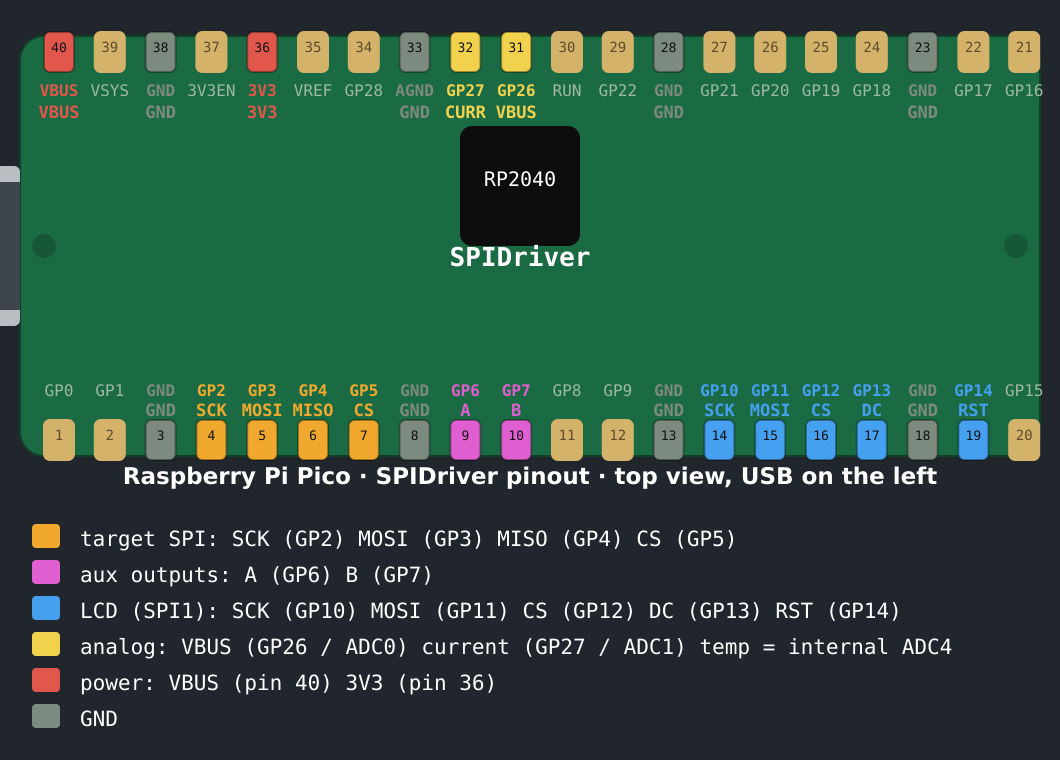
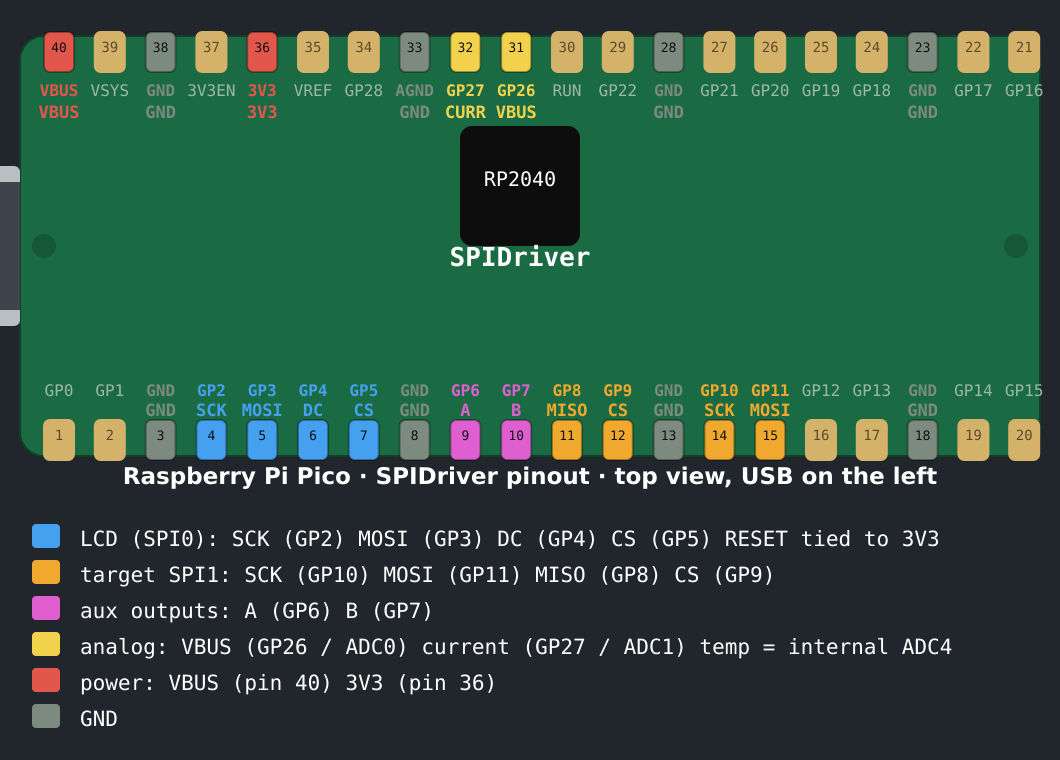
refactor(pico): move LCD to SPI0 pins 4-7, target to SPI1
Display now sits on physical pins 4-7 (GP2 SCK, GP3 MOSI, GP4 DC/RS,
GP5 CS, SPI0) and the target on SPI1 (GP8 MISO, GP9 CS, GP10 SCK,
GP11 MOSI). A/B move to GP6/GP7. LCD reset pin dropped; tie RST to 3V3.

Target MOSI is on pin 15: RP2040 hardware-SPI pins come in fixed sets,
so no complete SPI set fits inside pins 9-13. Both buses hardware SPI.

diff --git a/firmware-c/pico/hal_pico.c b/firmware-c/pico/hal_pico.c
@@ -1,15 +1,19 @@
 /* SPIDriver firmware -- Raspberry Pi Pico (RP2040) port.
  *
- * Pin map (all configurable below):
+ * Pin map (all configurable below; both SPI buses are hardware SPI):
  *
- *   GPIO2  SCK      target SPI (SPI0)   GPIO10 SCK      LCD (SPI1)
- *   GPIO3  MOSI     target SPI          GPIO11 MOSI     LCD
- *   GPIO4  MISO     target SPI          GPIO12 CS       LCD
- *   GPIO5  CS       target SPI          GPIO13 DC       LCD
- *   GPIO6  A        signal output       GPIO14 RESET    LCD (optional)
+ *   GPIO2  SCK      LCD (SPI0)          GPIO10 SCK      target SPI (SPI1)
+ *   GPIO3  MOSI     LCD                 GPIO11 MOSI     target SPI
+ *   GPIO4  DC       LCD                 GPIO8  MISO     target SPI
+ *   GPIO5  CS       LCD                 GPIO9  CS       target SPI
+ *   GPIO6  A        signal output
  *   GPIO7  B        signal output
  *   GPIO26 VBUS sense (ADC0)            GPIO27 current sense (ADC1)
  *   internal ADC4  temperature sensor
+ *
+ * LCD RESET is not wired; tie it to 3V3 (as on the original board).
+ * Note: RP2040 hardware SPI pins are fixed sets, so the target MOSI cannot
+ * sit on physical pins 9-13; GP11 (pin 15) is the closest SPI1 TX option.
  *
  * The transport is USB CDC (TinyUSB); the original board's FTDI UART is not
  * needed because the RP2040 has a native USB controller.
@@ -29,18 +33,18 @@
 #include "usb_descriptors.h"
 
 /* ---- pin map ---- */
-#define PIN_T_SCK 2
-#define PIN_T_MOSI 3
-#define PIN_T_MISO 4
-#define PIN_T_CS 5
+/* LCD on SPI0 (physical pins 4-7); target on SPI1 (pins 9-13 where possible) */
+#define PIN_LCD_SCK 2
+#define PIN_LCD_MOSI 3
+#define PIN_LCD_DC 4
+#define PIN_LCD_CS 5
+
+#define PIN_T_SCK 10
+#define PIN_T_MOSI 11
+#define PIN_T_MISO 8
+#define PIN_T_CS 9
 #define PIN_A 6
 #define PIN_B 7
-
-#define PIN_LCD_SCK 10
-#define PIN_LCD_MOSI 11
-#define PIN_LCD_CS 12
-#define PIN_LCD_DC 13
-#define PIN_LCD_RST 14
 
 #define PIN_VBUS_ADC 26
 #define PIN_CURR_ADC 27
@@ -86,7 +90,7 @@ static void spi_detach(void) { spi_target_pins_float(); }
 
 static uint8_t spi_xfer(uint8_t b) {
     uint8_t r = 0;
-    spi_write_read_blocking(spi0, &b, &r, 1);
+    spi_write_read_blocking(spi1, &b, &r, 1);
     return r;
 }
 
@@ -144,15 +148,13 @@ static uint16_t hal_adc_read(unsigned ch) {
     return (uint16_t)adc_read();
 }
 
-/* ---- LCD bus (SPI1) ---- */
+/* ---- LCD bus (SPI0) ---- */
 static void lcd_cs(bool v) { gpio_put(PIN_LCD_CS, v ? 1 : 0); }
 static void lcd_dc(bool v) { gpio_put(PIN_LCD_DC, v ? 1 : 0); }
 
 static void lcd_write(uint8_t b) {
-    spi_write_blocking(spi1, &b, 1);
+    spi_write_blocking(spi0, &b, 1);
 }
-
-static void lcd_reset(bool v) { gpio_put(PIN_LCD_RST, v ? 1 : 0); }
 
 /* ---- tick ---- */
 static bool tick_cb(struct repeating_timer *t) {
@@ -163,27 +165,19 @@ static bool tick_cb(struct repeating_timer *t) {
 
 /* ---- init ---- */
 static void hw_init(void) {
-    /* target SPI */
-    spi_init(spi0, SPI_TARGET_HZ);
-    spi_target_pins_drive();
-    gpio_put(PIN_T_CS, 1);
-
-    /* LCD SPI */
-    spi_init(spi1, SPI_LCD_HZ);
+    /* LCD SPI (SPI0); no reset pin, LCD RESET tied to 3V3 externally */
+    spi_init(spi0, SPI_LCD_HZ);
     gpio_set_function(PIN_LCD_SCK, GPIO_FUNC_SPI);
     gpio_set_function(PIN_LCD_MOSI, GPIO_FUNC_SPI);
     gpio_init(PIN_LCD_CS);
     gpio_set_dir(PIN_LCD_CS, GPIO_OUT);
     gpio_init(PIN_LCD_DC);
     gpio_set_dir(PIN_LCD_DC, GPIO_OUT);
-    gpio_init(PIN_LCD_RST);
-    gpio_set_dir(PIN_LCD_RST, GPIO_OUT);
 
-    /* LCD hardware reset pulse */
-    lcd_reset(false);
-    sleep_ms(10);
-    lcd_reset(true);
-    sleep_ms(120);
+    /* target SPI (SPI1) */
+    spi_init(spi1, SPI_TARGET_HZ);
+    spi_target_pins_drive();
+    gpio_put(PIN_T_CS, 1);
 
     /* ADC */
     adc_init();
@@ -219,7 +213,7 @@ int main(void) {
     g_hal.lcd_cs = lcd_cs;
     g_hal.lcd_dc = lcd_dc;
     g_hal.lcd_write = lcd_write;
-    g_hal.lcd_reset = lcd_reset;
+    g_hal.lcd_reset = NULL;
 
     /* Calibration (raw16 scale = raw12 << 4).  See README for derivation. */
     g_hal.cal_vbus_mv = 8250;      /* 3.3 V ref, divider Vbus = 2.5 x Vpin */

diff --git a/firmware-c/tools/genpinout.py b/firmware-c/tools/genpinout.py
@@ -23,7 +23,7 @@ C_DIM = "#9db8a5"
 
 C_SPI = "#f0a92e"  # target SPI bus
 C_AUX = "#e05fd0"  # A / B aux outputs
-C_LCD = "#46a0f0"  # LCD bus (SPI1)
+C_LCD = "#46a0f0"  # LCD bus (SPI0)
 C_ADC = "#f2d24c"  # analog inputs
 C_PWR = "#e2574c"  # power
 C_GND = "#7d8a80"  # ground
@@ -34,22 +34,22 @@ BOTTOM = [
     (1, "GP0", None, None),
     (2, "GP1", None, None),
     (3, "GND", "GND", C_GND),
-    (4, "GP2", "SCK", C_SPI),
-    (5, "GP3", "MOSI", C_SPI),
-    (6, "GP4", "MISO", C_SPI),
-    (7, "GP5", "CS", C_SPI),
+    (4, "GP2", "SCK", C_LCD),
+    (5, "GP3", "MOSI", C_LCD),
+    (6, "GP4", "DC", C_LCD),
+    (7, "GP5", "CS", C_LCD),
     (8, "GND", "GND", C_GND),
     (9, "GP6", "A", C_AUX),
     (10, "GP7", "B", C_AUX),
-    (11, "GP8", None, None),
-    (12, "GP9", None, None),
+    (11, "GP8", "MISO", C_SPI),
+    (12, "GP9", "CS", C_SPI),
     (13, "GND", "GND", C_GND),
-    (14, "GP10", "SCK", C_LCD),
-    (15, "GP11", "MOSI", C_LCD),
-    (16, "GP12", "CS", C_LCD),
-    (17, "GP13", "DC", C_LCD),
+    (14, "GP10", "SCK", C_SPI),
+    (15, "GP11", "MOSI", C_SPI),
+    (16, "GP12", None, None),
+    (17, "GP13", None, None),
     (18, "GND", "GND", C_GND),
-    (19, "GP14", "RST", C_LCD),
+    (19, "GP14", None, None),
     (20, "GP15", None, None),
 ]
 # top row, left -> right (pins 40..21)
@@ -170,9 +170,12 @@ text(
 )
 ly = OY + BH + 34
 items = [
-    (C_SPI, "target SPI:  SCK (GP2)  MOSI (GP3)  MISO (GP4)  CS (GP5)"),
+    (
+        C_LCD,
+        "LCD (SPI0):  SCK (GP2)  MOSI (GP3)  DC (GP4)  CS (GP5)  RESET tied to 3V3",
+    ),
+    (C_SPI, "target SPI1:  SCK (GP10)  MOSI (GP11)  MISO (GP8)  CS (GP9)"),
     (C_AUX, "aux outputs:  A (GP6)  B (GP7)"),
-    (C_LCD, "LCD (SPI1):  SCK (GP10)  MOSI (GP11)  CS (GP12)  DC (GP13)  RST (GP14)"),
     (C_ADC, "analog:  VBUS (GP26 / ADC0)  current (GP27 / ADC1)  temp = internal ADC4"),
     (C_PWR, "power:  VBUS (pin 40)  3V3 (pin 36)"),
     (C_GND, "GND"),

diff --git a/firmware-c/README.md b/firmware-c/README.md
@@ -55,20 +55,24 @@ tools/genfonts.py  font generator (run once; output committed)
 
 | GPIO | Function |
 | --- | --- |
-| 2 | SCK (target SPI, SPI0) |
-| 3 | MOSI (target SPI) |
-| 4 | MISO (target SPI) |
-| 5 | CS (target SPI) |
+| 2 | SCK (LCD, SPI0) |
+| 3 | MOSI / SDA (LCD) |
+| 4 | DC / RS / A0 (LCD, data/command) |
+| 5 | CS (LCD) |
 | 6 | A (auxiliary signal) |
 | 7 | B (auxiliary signal) |
-| 10 | SCK (LCD, SPI1) |
-| 11 | MOSI (LCD) |
-| 12 | CS (LCD) |
-| 13 | DC (LCD) |
-| 14 | RESET (LCD) |
+| 8 | MISO (target SPI1) |
+| 9 | CS (target SPI1) |
+| 10 | SCK (target SPI1) |
+| 11 | MOSI (target SPI1) |
 | 26 | VBUS sense (ADC0) |
 | 27 | current sense (ADC1) |
 | — | internal ADC4 = temperature |
+
+Both SPI buses are hardware SPI (no bit-banging). LCD RESET is not wired;
+tie it to 3V3, as on the original board. The target MOSI sits on GP11
+(pin 15): RP2040 hardware-SPI pins come in fixed sets, so no complete
+SPI set fits inside physical pins 9-13.
 
 Edit the `PIN_*` defines at the top of `pico/hal_pico.c` to rewire.
 
